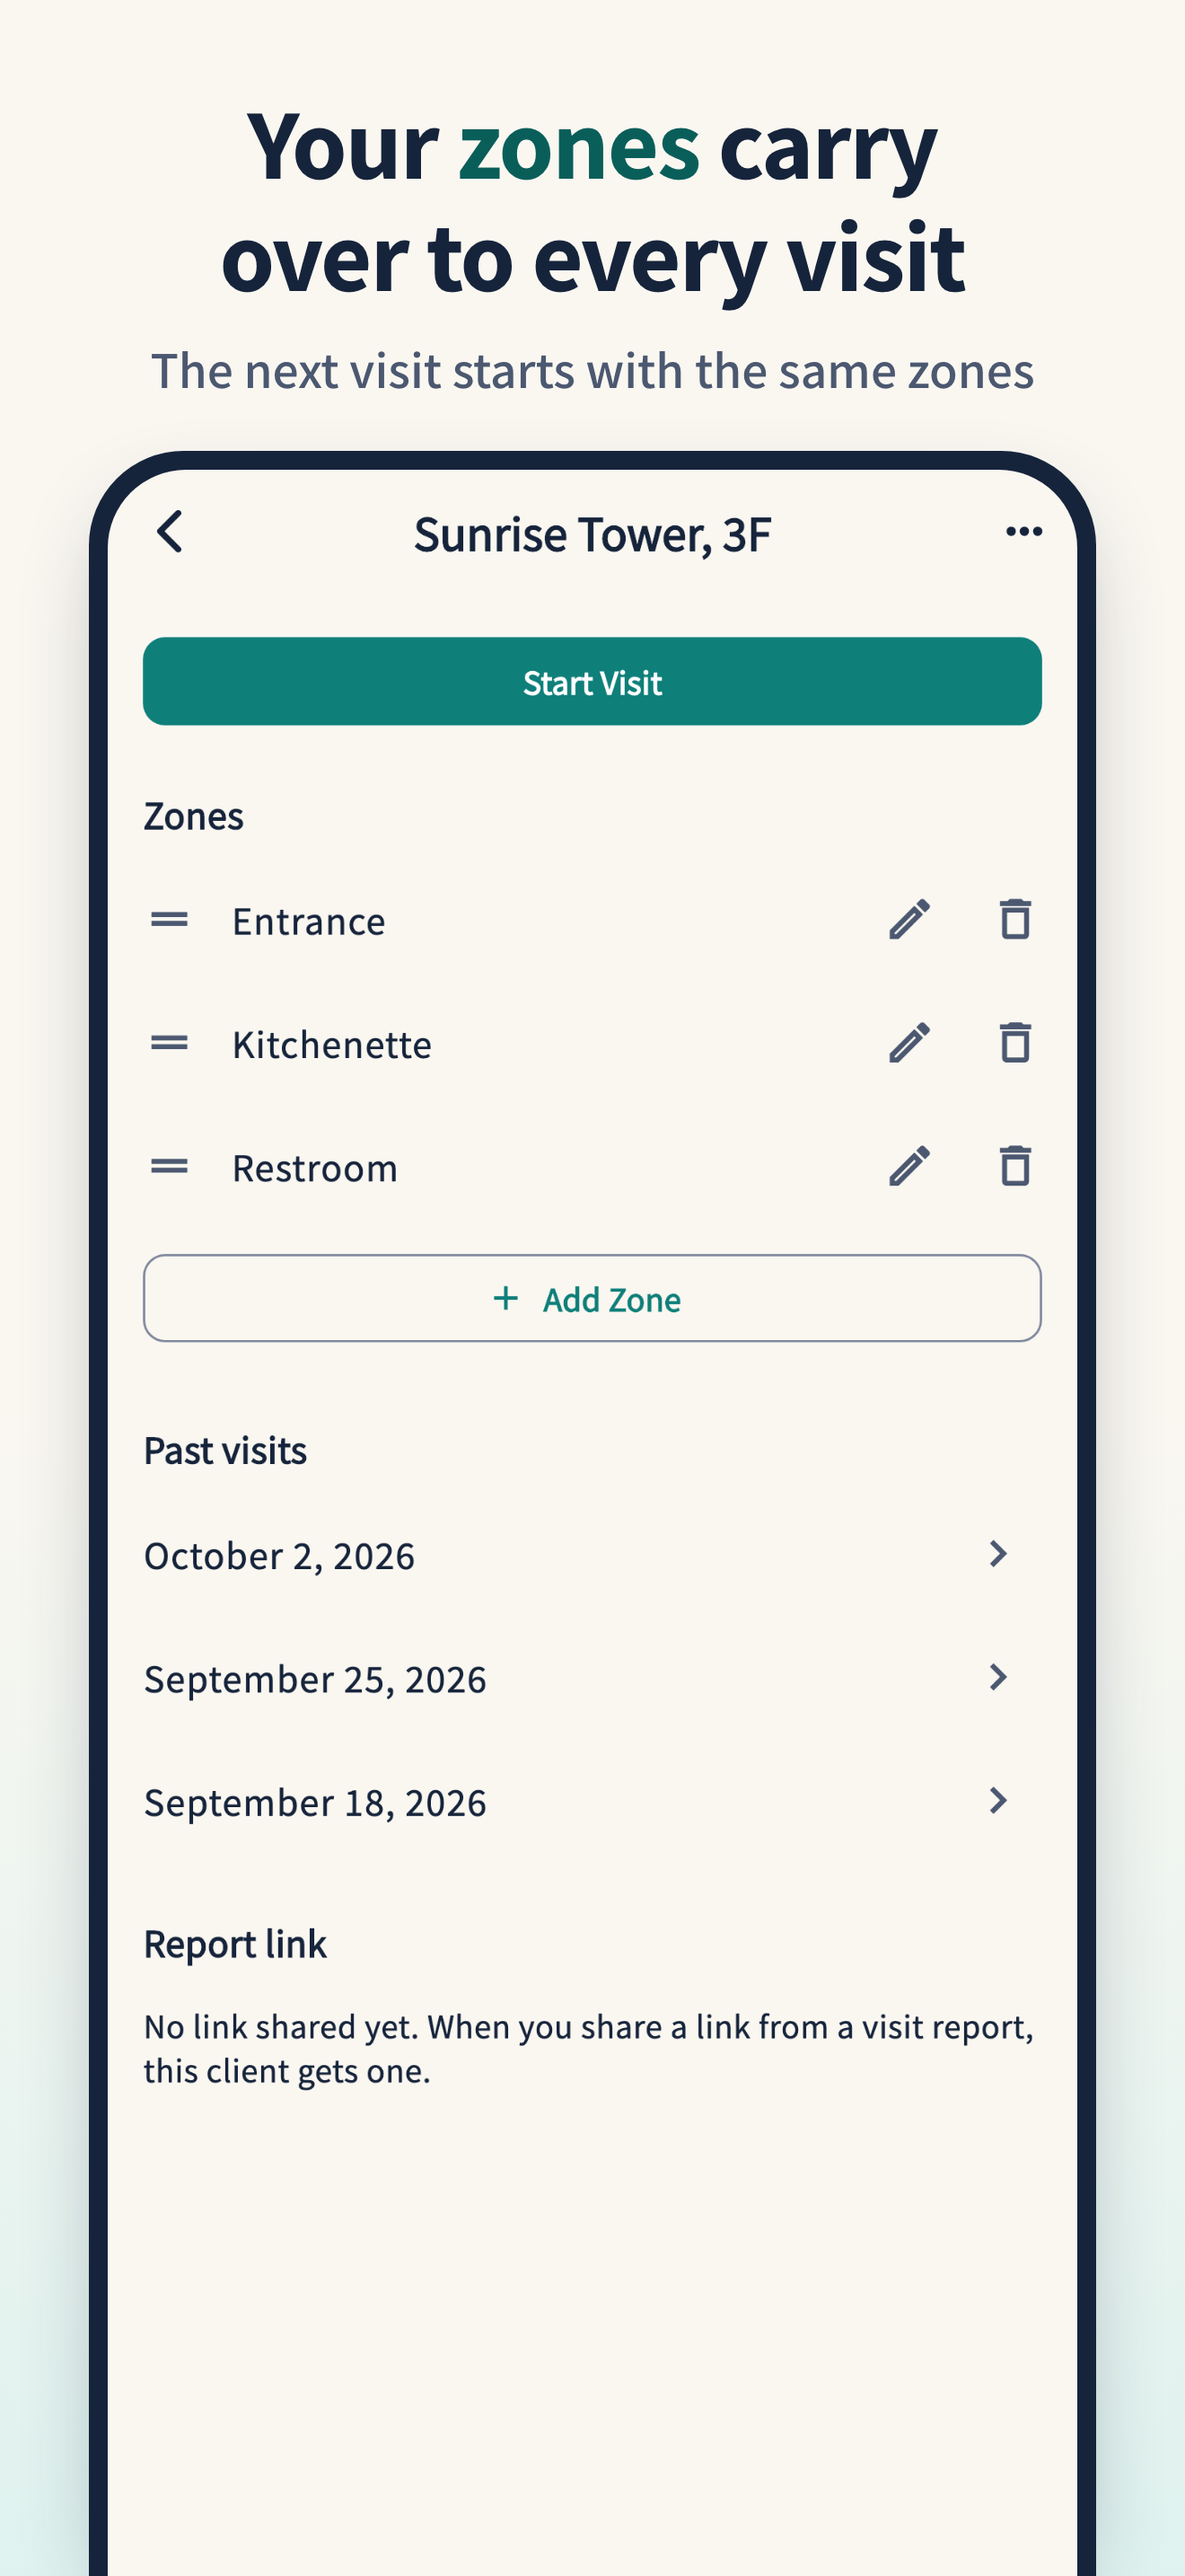
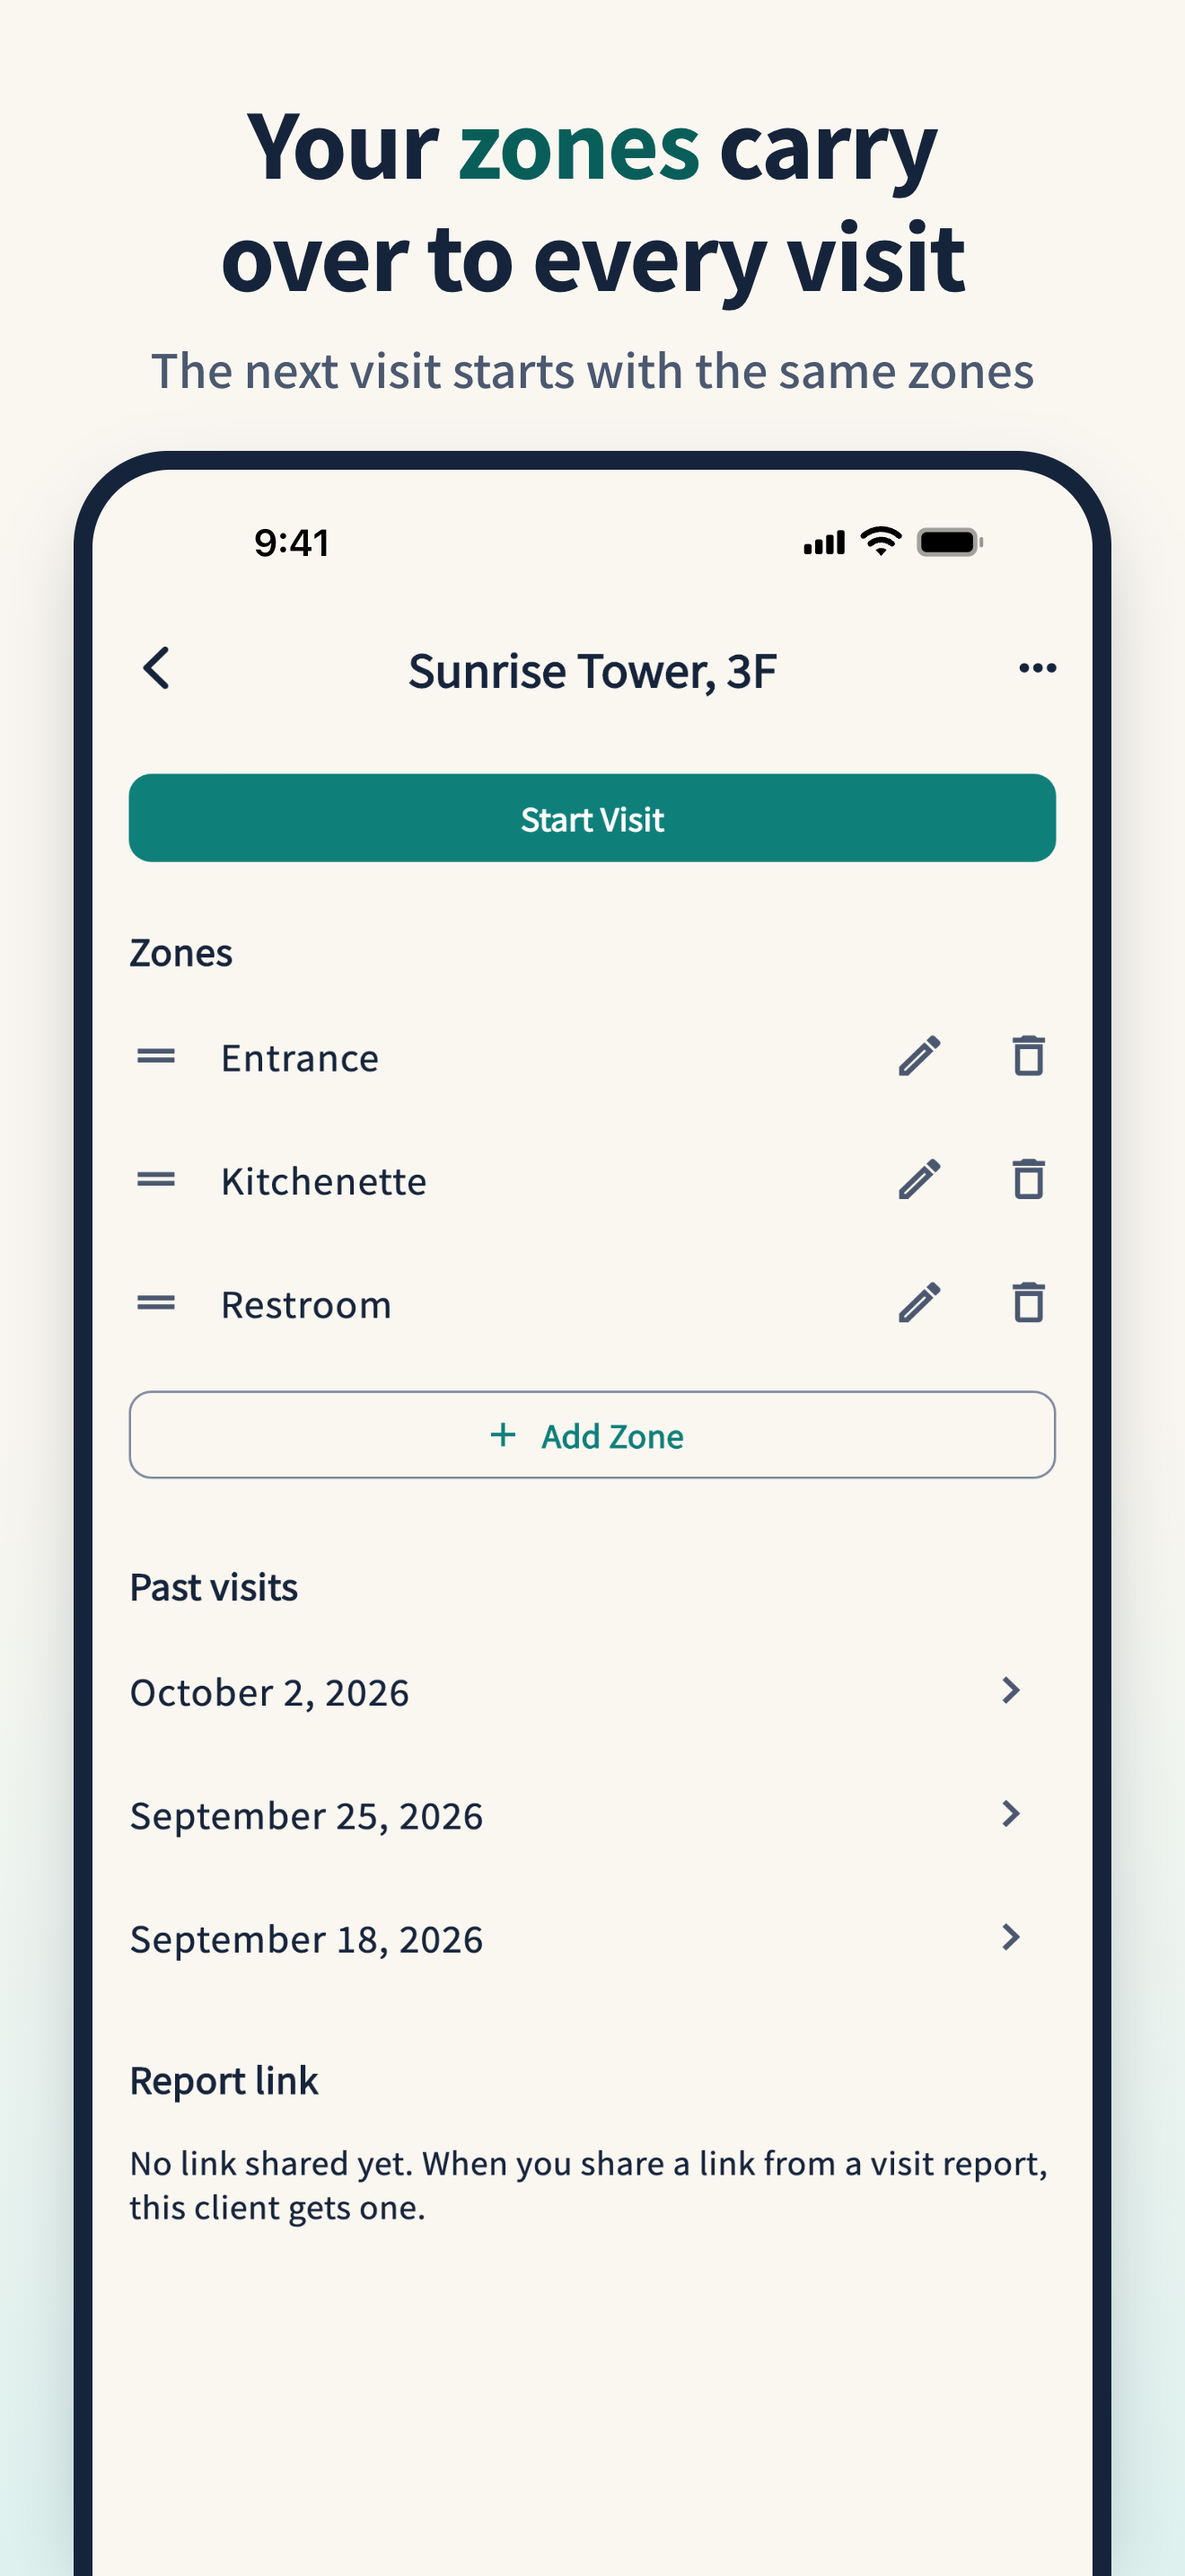
chore(store): render the store screenshots with the system bars
The test view had no padding, so every screen started at the top edge of the phone, without the status bar that a device screenshot shows.
render_screens.dart now gives each device its system bar insets, 62 and 34 points on iOS as an iPhone 16 Pro screenshot of the app measured them, and 24 and 48 dp on Android from the framework dimensions, and writes them to device.js.
frame.html reads device.js and draws the iOS status bar, or the Android status bar and three-button navigation bar, over the empty insets.

diff --git a/tool/store_screenshots/frame.html b/tool/store_screenshots/frame.html
@@ -6,12 +6,14 @@
     <link rel="preconnect" href="https://fonts.gstatic.com" crossorigin />
     <link
       rel="stylesheet"
-      href="https://fonts.googleapis.com/css2?family=Noto+Sans+KR:wght@400;500;700;800&display=swap" />
+      href="https://fonts.googleapis.com/css2?family=Noto+Sans+KR:wght@400;500;700;800&family=Roboto:wght@500&display=swap" />
     <style>
       /*
        * The frame of one store screenshot: the headline of copy.js above a raw screen of render_screens.dart.
-       * render.sh opens it as frame.html?screen=<name>&lang=<ko|en>&image=<raw PNG> at the store size, so every length is
-       * in vw and the phone takes the height that the words leave.
+       * render.sh opens it as frame.html?screen=<name>&lang=<ko|en>&platform=<ios|android>&device=<device.js>&image=<raw
+       * PNG> at the store size, so every length is in vw and the phone takes the height that the words leave.
+       * The raw screen leaves the system bars empty, and the script below draws them over it in the logical pixels of the
+       * device.js that render_screens.dart writes.
        * The color tokens are copies from web/index.html, so a change to them there must be repeated here.
        */
       :root {
@@ -93,11 +95,20 @@
         background: var(--ink);
         box-shadow: 0 3vw 8vw -3vw rgba(22, 36, 59, 0.45);
       }
-      .phone img {
+      .screen {
+        position: relative;
+        width: 100%;
+        height: 100%;
+        overflow: hidden;
+        border-radius: 6.6vw 6.6vw 0 0;
+      }
+      .screen img,
+      .screen svg {
+        position: absolute;
+        inset: 0;
         display: block;
         width: 100%;
         height: 100%;
-        border-radius: 6.6vw 6.6vw 0 0;
       }
     </style>
     <script src="copy.js"></script>
@@ -108,7 +119,12 @@
       <p id="sub"></p>
     </header>
     <div class="stage">
-      <div class="phone"><img id="screen" alt="" /></div>
+      <div class="phone">
+        <div class="screen">
+          <img id="screen" alt="" />
+          <svg id="bars" aria-hidden="true"></svg>
+        </div>
+      </div>
     </div>
     <script>
       const params = new URLSearchParams(location.search);
@@ -140,6 +156,183 @@
       const phone = document.querySelector(".phone");
       phone.style.aspectRatio = `${innerWidth} / ${innerHeight}`;
       document.getElementById("screen").src = params.get("image");
+
+      // device.js sets window.STORE_DEVICE, and the bars are drawn when it has loaded.
+      let device;
+      const bars = document.getElementById("bars");
+      const geometry = document.createElement("script");
+      geometry.src = params.get("device");
+      geometry.onerror = () => {
+        throw new Error(`No device geometry at ${params.get("device")}`);
+      };
+      geometry.onload = () => {
+        device = window.STORE_DEVICE;
+        bars.setAttribute("viewBox", `0 0 ${device.width} ${device.height}`);
+        ({ ios: drawIos, android: drawAndroid })[params.get("platform")]();
+      };
+      document.head.append(geometry);
+
+      // Adds an SVG element with the attributes of `attributes` to the bars.
+      function draw(name, attributes, text) {
+        const node = document.createElementNS(
+          "http://www.w3.org/2000/svg",
+          name,
+        );
+        for (const [key, value] of Object.entries(attributes))
+          node.setAttribute(key, value);
+        if (text) node.textContent = text;
+        bars.append(node);
+      }
+
+      // An arc of radius `r` around the point (x, y), `angle` degrees to each side of straight up.
+      function arc(x, y, r, angle) {
+        const dx = r * Math.sin((angle * Math.PI) / 180);
+        const dy = r * Math.cos((angle * Math.PI) / 180);
+        return `M ${x - dx} ${y - dy} A ${r} ${r} 0 0 1 ${x + dx} ${y - dy}`;
+      }
+
+      // The iOS status bar of an iPhone screenshot, in points. The sizes and the positions were measured on an iPhone 16
+      // Pro screenshot of the app: every item is centered at 53% of the top inset, and the time and the icons are
+      // centered in the space beside the Dynamic Island, 5 points out from its middle. A screenshot shows neither the
+      // Dynamic Island nor the home indicator, so the frame draws neither.
+      function drawIos() {
+        const { width, top } = device;
+        const y = top * 0.53;
+        const side = (width - 126) / 4 + 5;
+        draw(
+          "text",
+          {
+            x: side,
+            y,
+            "text-anchor": "middle",
+            "dominant-baseline": "central",
+            "font-family":
+              '-apple-system, "SF Pro Text", system-ui, sans-serif',
+            "font-size": 17,
+            "font-weight": 600,
+          },
+          "9:41",
+        );
+        // Signal, Wi-Fi, and battery, 80.5 points from the left of the signal to the end of the battery cap.
+        const x = width - side - 40.25;
+        [4.6, 6.7, 8.8, 10.9].forEach((height, index) =>
+          draw("rect", {
+            x: x + index * 5,
+            y: y + 5.45 - height,
+            width: 3.4,
+            height,
+            rx: 1,
+          }),
+        );
+        const wifi = x + 35;
+        for (const r of [12.2, 7.4]) {
+          draw("path", {
+            d: arc(wifi, y + 6.25, r, 42),
+            fill: "none",
+            stroke: "#000",
+            "stroke-width": 2.6,
+            "stroke-linecap": "round",
+          });
+        }
+        draw("path", {
+          d: `M ${wifi} ${y + 6.25} L ${arc(wifi, y + 6.25, 3.6, 42).slice(2)} Z`,
+        });
+        const battery = x + 51.2;
+        draw("rect", {
+          x: battery,
+          y: y - 6.55,
+          width: 27.5,
+          height: 13.1,
+          rx: 4.2,
+          "fill-opacity": 0.35,
+        });
+        draw("rect", {
+          x: battery + 2,
+          y: y - 4.55,
+          width: 23.5,
+          height: 9.1,
+          rx: 2.5,
+        });
+        draw("rect", {
+          x: battery + 28.5,
+          y: y - 2.3,
+          width: 1.6,
+          height: 4.6,
+          rx: 0.8,
+          "fill-opacity": 0.4,
+        });
+      }
+
+      // The Android status bar and three-button navigation bar, in density-independent pixels, with the 16 dp margins
+      // and the icon shapes of the AOSP system UI.
+      function drawAndroid() {
+        const { width, height, top, bottom } = device;
+        const ink = "#1f1f1f";
+        const y = top / 2;
+        draw(
+          "text",
+          {
+            x: 16,
+            y,
+            "dominant-baseline": "central",
+            "font-family": "Roboto, sans-serif",
+            "font-size": 14,
+            "font-weight": 500,
+            fill: ink,
+          },
+          "9:41",
+        );
+        const battery = width - 16 - 7.5;
+        draw("rect", {
+          x: battery,
+          y: y - 6,
+          width: 7.5,
+          height: 13,
+          rx: 1.2,
+          fill: ink,
+        });
+        draw("rect", {
+          x: battery + 2,
+          y: y - 7.5,
+          width: 3.5,
+          height: 2,
+          rx: 0.5,
+          fill: ink,
+        });
+        const signal = battery - 7 - 12;
+        draw("path", {
+          d: `M ${signal} ${y + 6} L ${signal + 12} ${y + 6} L ${signal + 12} ${y - 6} Z`,
+          fill: ink,
+        });
+        const wifi = signal - 6 - 9.2;
+        draw("path", {
+          d: `M ${wifi} ${y + 6} L ${arc(wifi, y + 6, 13, 45).slice(2)} Z`,
+          fill: ink,
+        });
+
+        const navigation = height - bottom / 2;
+        const stroke = {
+          fill: "none",
+          stroke: ink,
+          "stroke-width": 2,
+          "stroke-linejoin": "round",
+          "stroke-opacity": 0.8,
+        };
+        const back = width * 0.25;
+        draw("path", {
+          d: `M ${back - 6} ${navigation} L ${back + 6} ${navigation - 7} L ${back + 6} ${navigation + 7} Z`,
+          ...stroke,
+        });
+        draw("circle", { cx: width / 2, cy: navigation, r: 7.5, ...stroke });
+        draw("rect", {
+          x: width * 0.75 - 6.5,
+          y: navigation - 6.5,
+          width: 13,
+          height: 13,
+          rx: 1.5,
+          ...stroke,
+        });
+      }
     </script>
   </body>
 </html>

diff --git a/tool/store_screenshots/render_screens.dart b/tool/store_screenshots/render_screens.dart
@@ -3,6 +3,7 @@
 //
 // Run it with `flutter test tool/store_screenshots/render_screens.dart`; render.sh runs it before it frames the
 // screens. It lives outside test/, so the test suite, the coverage gate, and CI never run it.
+import 'dart:convert';
 import 'dart:io';
 import 'dart:ui' as ui;
 
@@ -20,14 +21,38 @@ import 'package:path/path.dart' as p;
 import '../../test/helpers/helpers.dart';
 import 'fixtures.dart';
 
-/// A store size of a platform: the size of the screen in logical pixels and the pixel ratio of the image.
-typedef _Device = ({String name, TargetPlatform platform, Size logicalSize, double pixelRatio});
+/// A store size of a platform: the size of the screen in logical pixels, the pixel ratio of the image, and the system
+/// bars over the top and the bottom of the screen in logical pixels, which frame.html draws.
+typedef _Device = ({
+  String name,
+  TargetPlatform platform,
+  Size logicalSize,
+  double pixelRatio,
+  double topInset,
+  double bottomInset,
+});
 
 const _devices = <_Device>[
-  // 1320 x 2868, the iPhone 6.9-inch size of App Store Connect.
-  (name: 'ios', platform: TargetPlatform.iOS, logicalSize: Size(440, 956), pixelRatio: 3),
-  // 1080 x 1920, the 9:16 phone size of Google Play.
-  (name: 'android', platform: TargetPlatform.android, logicalSize: Size(432, 768), pixelRatio: 2.5),
+  // 1320 x 2868, the iPhone 6.9-inch size of App Store Connect. The insets are the status bar with the Dynamic Island
+  // and the home indicator, as an iPhone 16 Pro screenshot of the app measured them.
+  (
+    name: 'ios',
+    platform: TargetPlatform.iOS,
+    logicalSize: Size(440, 956),
+    pixelRatio: 3,
+    topInset: 62,
+    bottomInset: 34,
+  ),
+  // 1080 x 1920, the 9:16 phone size of Google Play. The insets are status_bar_height and navigation_bar_height of the
+  // Android framework.
+  (
+    name: 'android',
+    platform: TargetPlatform.android,
+    logicalSize: Size(432, 768),
+    pixelRatio: 2.5,
+    topInset: 24,
+    bottomInset: 48,
+  ),
 ];
 
 const _languages = <(String, Locale, StoreFixtures)>[
@@ -70,12 +95,28 @@ void main() {
         debugDisableShadows = false;
         WidgetsApp.debugAllowBannerOverride = false;
         debugDefaultTargetPlatformOverride = device.platform;
+        // The test view has no system bars, so without the insets every screen starts at the top edge.
+        final insets = FakeViewPadding(
+          top: device.topInset * device.pixelRatio,
+          bottom: device.bottomInset * device.pixelRatio,
+        );
         tester.view
           ..physicalSize = device.logicalSize * device.pixelRatio
-          ..devicePixelRatio = device.pixelRatio;
+          ..devicePixelRatio = device.pixelRatio
+          ..padding = insets
+          ..viewPadding = insets;
         try {
           final directory = p.join(_outputDirectory, device.name, language);
           Directory(directory).createSync(recursive: true);
+          // frame.html draws the system bars from this file, so the insets live in one place.
+          final geometry = jsonEncode({
+            'width': device.logicalSize.width,
+            'height': device.logicalSize.height,
+            'top': device.topInset,
+            'bottom': device.bottomInset,
+          });
+          File(p.join(_outputDirectory, device.name, 'device.js'))
+              .writeAsStringSync('window.STORE_DEVICE = $geometry;\n');
 
           await _pumpScreen(tester, locale, fixtures, VisitCapturePage.route(visitId: StoreFixtures.latestVisitId));
           await _write(tester, p.join(directory, '01_capture.png'));
